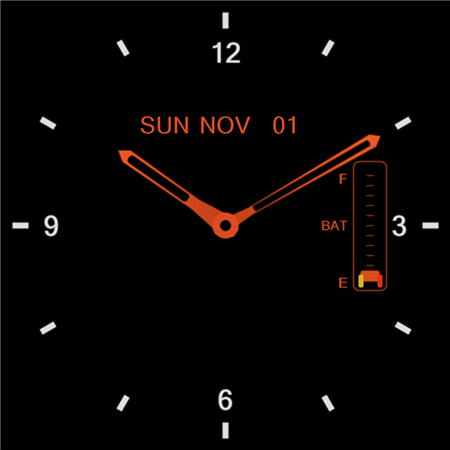
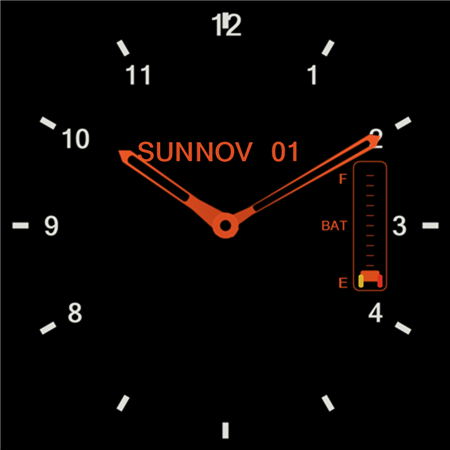
Match always-on numerals and date to the active face
Always-on hours use the active positions and sizes, including 1, 2, 4, 8, 10, and 11, and omit 6. The date sits on the same live-row box in both modes.

diff --git a/docs/data-sources.md b/docs/data-sources.md
@@ -120,8 +120,10 @@ uses UTC year, day-of-year, and AM/PM, so its time inputs change only twice dail
 It estimates the phase from a known new moon and the mean synodic month, with no
 moon API or native moon-phase source. See [moon calculation](moon-phase.md) for
 accuracy limits. Ambient mode displays orange hour/minute hands, the selected weekday,
-month, and date, a battery slider with threshold lamps, and white hour markers
-with 12/3/6/9. The ambient scene has no seconds, weather, moon, activity tracks,
+month, and date, a battery slider with threshold lamps, and the same hour
+numerals as the active face (1, 2, 3, 4, 8, 9, 10, 11, and 12) at the same
+positions and sizes. The always-on date uses that face's live-row box. The
+ambient scene has no seconds, weather, moon, activity tracks,
 or adjacent calendar entries. Samsung display offload was observed active.
 Actual battery life must be measured on the watch.
 

diff --git a/TODO.md b/TODO.md
@@ -10,7 +10,7 @@ Requested on 2026-11-02. These are pending design changes for the next session.
   mechanically natural. Add a defined edge showing the back/thickness of the
   metal dial around the openings, creating the impression of peering past the
   dial's backing into the internal mechanism.
-- [ ] Align the always-on hour numerals with the standard face, matching their
+- [x] Align the always-on hour numerals with the standard face, matching their
   positions and font sizes. Place the date display in exactly the same new
   location in both modes, using the revised layout from the first item.
 - [ ] Examine the face and both companions for battery use, including power

diff --git a/README.md b/README.md
@@ -26,8 +26,8 @@ to the watch display.
   customizable complication in the same inset.
 * Three concentric activity tracks for steps, active minutes, and activity
   calories, with metallic fills, sharp edges, and exposed rack teeth.
-* A simplified always-on display with orange hands, calendar, and battery
-  gauge, plus white hour markers on black.
+* A simplified always-on display with orange hands, the same date placement,
+  and a battery gauge, plus the active face's hour numerals on black.
 
 The design prioritizes battery efficiency through static artwork, native WFF
 rendering, and provider-driven data updates. Seconds and the balance disappear
